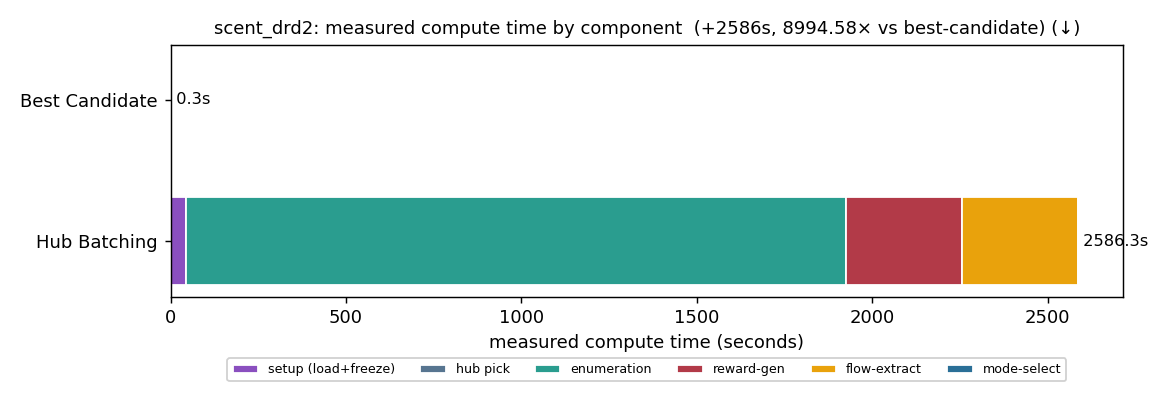
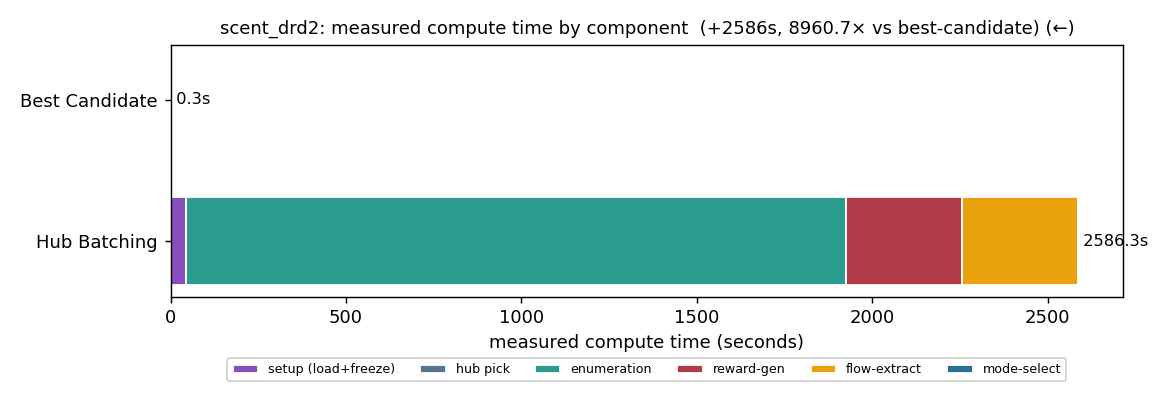
Horizontal bar charts get a left arrow, not a down arrow
compute_time.png is a barh chart, so its metric is on the X axis -- a (down)
marker there has no vertical axis to refer to and reads as a mistake. Now (left)
= "shorter bars are better".

This unifies the rule the module had been growing toward: the CALLER always
names the metric's good direction ("lower"/"higher"), and plot_style resolves
that into a glyph against the panel's GEOMETRY. Hand-picking a glyph is wrong in
three distinct ways we have now hit -- a flipped axis (diversity sweeps run
0.9 -> 0.3, so "lower cutoff is better" points RIGHT), a horizontal chart (this
bug), and a Pareto panel (two arrows where one diagonal is clearer). So
ideal_marker takes axis="x"/"y" plus invert=, and the earlier claim that "the
glyph describes the metric, not the screen" is replaced by that split.

Verified all six axis x direction x inversion combinations.

Swept the repo for other barh charts: sweep_campaign's compute_frontier is one
and had no marker at all -- fixed separately (their file). The remaining barh
charts (make_pricing_panel, make_generality_panel, residual_taxonomy) are still
unmarked; make_pricing_panel is a cheap CSV replot, the other two are the other
agent's.

Re-rendered the 3 cells that have measured timings; their reactions/mode
verified unchanged.

Changed region(s): [[0.1846, 0.0312, 0.9231, 0.0938]]

diff --git a/validation/lsdflow/plot_style.py b/validation/lsdflow/plot_style.py
@@ -11,22 +11,30 @@ standard publication practice ("FID ↓", "Accuracy ↑") — it costs no plot a
 data or the legend, survives cropping, and reads correctly in a figure list or a caption. Do not add
 arrows, shaded "better" regions, or corner annotations to the plotting area.
 
-Two flavours, and picking the right one matters for readability:
+**The rule in one line: the caller names the METRIC's good direction; this module resolves that into a
+glyph against the panel's GEOMETRY.** Those two steps must stay separate. A caller who hand-picks a
+glyph gets it wrong in three distinct ways we have already hit: on a flipped axis (diversity sweeps run
+0.9 -> 0.3, so "lower cutoff is better" points *right*), on a horizontally-oriented chart (a ``↓`` on a
+horizontal bar chart has no vertical axis to refer to), and on a Pareto panel (two arrows where one
+diagonal is clearer). So always pass ``"lower"``/``"higher"`` plus the panel's shape, never a direction
+you worked out yourself.
 
-* **One objective** -> :func:`ideal_marker` gives an axis-aligned ``(↓)`` / ``(↑)``. The glyph describes
-  the METRIC, not the screen: ``↓`` always means "lower values are better" even where the axis is
-  flipped, so ``fixed_modes`` (reactions on an inverted y) is correctly ``(↓)``.
-* **Both axes are objectives** (every Pareto panel) -> :func:`pareto_marker` gives a single DIAGONAL
-  ``(↗)`` pointing at the desirable corner. Prefer this over two arrows: ``(↑ modes, ↓ reactions)``
-  makes the reader resolve two axes before judging a curve, whereas one diagonal says "we want to be
-  over here, and here is how close each model gets" immediately. Because a diagonal names a *corner*,
-  it is the one case that must know about axis inversion — so its API takes the metric directions plus
-  the ``invert_*`` flags and derives the corner itself.
+Pick by panel shape:
+
+* **One objective on the y-axis** (line plots, vertical bars) -> :func:`ideal_marker` -> ``(↓)``/``(↑)``.
+* **One objective on the x-axis** (HORIZONTAL bars) -> ``ideal_marker(..., axis="x")`` -> ``(←)``/``(→)``.
+* **A flipped axis** -> add ``invert=True`` so the glyph points at the good side of the panel.
+* **Both axes are objectives** (every Pareto panel) -> :func:`pareto_marker` -> a single DIAGONAL
+  ``(↗)`` at the desirable corner. Prefer this over two arrows: ``(↑ modes, ↓ reactions)`` makes the
+  reader resolve two axes before judging a curve, whereas one diagonal says "we want to be over here,
+  and here is how close each model gets" immediately.
 
     from validation.lsdflow.plot_style import ideal_marker, pareto_marker
 
     ax.set_title(f"cost per mode {ideal_marker('lower')}")             # -> "... (↓)"
     ax.set_title(f"modes found {ideal_marker('higher')}")              # -> "... (↑)"
+    ax.barh(...)                                                       # horizontal bars!
+    ax.set_title(f"compute time {ideal_marker('lower', axis='x')}")    # -> "... (←)"
     ax.set_title("count-once curve " + pareto_marker(                  # x = reactions, y = modes
         x="lower", y="higher"))                                        # -> "(↖)"
     ax.set_title("diversity pareto " + pareto_marker(                  # x flipped: 0.9 -> 0.3
@@ -39,46 +47,66 @@ from __future__ import annotations
 
 from typing import Sequence, Tuple, Union
 
-# "lower"/"higher" describe the METRIC's good direction, never a screen direction.
-_GLYPH = {"lower": "↓", "higher": "↑", "down": "↓", "up": "↑"}
+# The caller always names the METRIC's good direction ("lower"/"higher"); the glyph is then resolved
+# against the plot's geometry. Keeping those two steps separate is what makes the marker correct on
+# flipped axes and on horizontally-oriented charts without the caller reasoning about pixels.
+_IS_HIGHER = {"higher": True, "lower": False, "up": True, "down": False}
+
+# (axis carrying the metric, good direction is toward larger values on screen) -> glyph.
+_AXIS_GLYPH = {
+    ("y", True): "↑",
+    ("y", False): "↓",
+    ("x", True): "→",
+    ("x", False): "←",
+}
 
 Spec = Union[str, Tuple[str, str]]
 
 
-def _one(spec: Spec) -> str:
+def _one(spec: Spec, axis: str, invert: bool) -> str:
     if isinstance(spec, str):
         direction, name = spec, ""
     else:
         direction, name = spec
     key = direction.strip().lower()
-    if key not in _GLYPH:
+    if key not in _IS_HIGHER:
         raise ValueError(f"direction must be 'lower' or 'higher', got {direction!r}")
-    return f"{_GLYPH[key]} {name}".strip()
+    if axis not in ("x", "y"):
+        raise ValueError(f"axis must be 'x' or 'y', got {axis!r}")
+    # Good points toward larger on-screen values iff the metric wants larger AND the axis is not
+    # flipped (or both are reversed).
+    toward_larger = _IS_HIGHER[key] != bool(invert)
+    return f"{_AXIS_GLYPH[(axis, toward_larger)]} {name}".strip()
 
 
-def ideal_marker(*specs: Spec) -> str:
+def ideal_marker(*specs: Spec, axis: str = "y", invert: bool = False) -> str:
     """The parenthesised ideal-direction marker to append to a panel title.
 
     Args:
         *specs: one entry per metric. Either ``"lower"``/``"higher"``, or a
             ``(direction, metric_name)`` pair when a panel has more than one metric and the arrows
             would otherwise be ambiguous.
+        axis: which axis carries the metric — ``"y"`` (default: vertical bars, line plots) or
+            ``"x"``. **Horizontal bar charts must pass ``axis="x"``**, which yields ``←``/``→``: a
+            ``↓`` on a horizontal bar chart has no vertical axis to refer to and reads as a mistake.
+        invert: pass ``True`` if that axis was flipped (``ax.invert_yaxis()``), so the glyph still
+            points at the good side of the panel.
 
     Returns:
-        e.g. ``"(↓)"``, ``"(↑)"``, ``"(↑ modes, ↓ reactions)"``. Empty string if no specs are given,
-        so a caller can pass through unconditionally.
+        e.g. ``"(↓)"``, ``"(↑)"``, ``"(←)"``, ``"(↑ modes, ↓ reactions)"``. Empty string if no specs
+        are given, so a caller can pass through unconditionally.
     """
     # Drop empty/None entries so a caller can pass an optional value straight through without
     # branching (a bare `ideal or ""` must not raise).
     kept = [s for s in specs if s]
     if not kept:
         return ""
-    return "(" + ", ".join(_one(s) for s in kept) + ")"
+    return "(" + ", ".join(_one(s, axis, invert) for s in kept) + ")"
 
 
-def title_with_ideal(title: str, *specs: Spec) -> str:
+def title_with_ideal(title: str, *specs: Spec, axis: str = "y", invert: bool = False) -> str:
     """``title`` with the marker appended — the one-call form for ``ax.set_title``."""
-    marker = ideal_marker(*specs)
+    marker = ideal_marker(*specs, axis=axis, invert=invert)
     return f"{title} {marker}" if marker else title
 
 
@@ -120,12 +148,12 @@ def pareto_marker(
     And the count-once curve (x = reactions spent, y = modes gained, neither inverted) to ``"(↖)"``.
     """
     for name, val in (("x", x), ("y", y)):
-        if val.strip().lower() not in _GLYPH:
+        if val.strip().lower() not in _IS_HIGHER:
             raise ValueError(f"{name} must be 'lower' or 'higher', got {val!r}")
     # "Good is rightward" iff the good direction is toward larger x AND x is not flipped (or the
     # reverse of both). Same for up.
-    rightward = (_GLYPH[x.strip().lower()] == "↑") != bool(invert_x)
-    upward = (_GLYPH[y.strip().lower()] == "↑") != bool(invert_y)
+    rightward = _IS_HIGHER[x.strip().lower()] != bool(invert_x)
+    upward = _IS_HIGHER[y.strip().lower()] != bool(invert_y)
     glyph = _CORNER[(rightward, upward)]
     return f"({glyph} {note})" if note else f"({glyph})"
 
@@ -149,6 +177,6 @@ def describe(*specs: Sequence[Spec]) -> str:
     parts = []
     for spec in specs:
         direction, name = (spec, "") if isinstance(spec, str) else spec
-        word = "lower" if _GLYPH[direction.strip().lower()] == "↓" else "higher"
+        word = "higher" if _IS_HIGHER[direction.strip().lower()] else "lower"
         parts.append(f"{word} {name}".strip() + " is better")
     return "; ".join(parts)

diff --git a/experiments/lsd_hubs/campaign/sweep_campaign.py b/experiments/lsd_hubs/campaign/sweep_campaign.py
@@ -371,8 +371,14 @@ def plot_compute_frontier(path, frontier, tag, lab_hours_per_reaction):
     ax.set_yticks(range(len(strategies)))
     ax.set_yticklabels([s[1] for s in strategies])
     ax.set_xlabel("measured compute time (s) to produce the library")
+    # HORIZONTAL bars -> the metric is on the x-axis, so axis="x" gives (<-) not (v).
     ax.set_title(
-        f"{tag}: compute frontier by stage (lab_hours_per_reaction={lab_hours_per_reaction:g})",
+        title_with_ideal(
+            f"{tag}: compute frontier by stage "
+            f"(lab_hours_per_reaction={lab_hours_per_reaction:g})",
+            "lower",
+            axis="x",
+        ),
         fontsize=10,
     )
     ax.legend(fontsize=7, ncol=4, loc="upper center", bbox_to_anchor=(0.5, -0.22), framealpha=0.9)

diff --git a/experiments/lsd_hubs/campaign/run_campaign.py b/experiments/lsd_hubs/campaign/run_campaign.py
@@ -336,8 +336,11 @@ def plot_compute_time(path: Path, section: dict, tag: str) -> None:
     if extra is not None:
         sub = f"  (+{extra:.0f}s"
         sub += f", {ratio:g}× vs best-candidate)" if ratio else ")"
+    # These are HORIZONTAL bars (barh), so the metric lives on the x-axis: axis="x" gives (<-),
+    # "shorter bars are better". A (v) here would have no vertical axis to refer to.
     ax.set_title(
-        title_with_ideal(f"{tag}: measured compute time by component{sub}", "lower"), fontsize=10
+        title_with_ideal(f"{tag}: measured compute time by component{sub}", "lower", axis="x"),
+        fontsize=10,
     )
     ax.legend(fontsize=7, ncol=6, loc="upper center", bbox_to_anchor=(0.5, -0.22), framealpha=0.9)
     fig.tight_layout()
